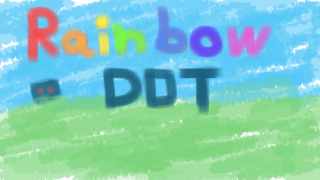
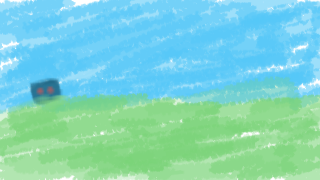
Upgrade title effect in title scrren!

Changed region(s): [[0.0625, 0.0278, 0.875, 0.3611], [0.3125, 0.3611, 0.6875, 0.6389]]

diff --git a/src/menuScreen.cpp b/src/menuScreen.cpp
@@ -11,6 +11,12 @@ MenuScreen::MenuScreen()
 {
 	//Load and set m_Logo
 	m_Background = SDLToolBox::LoadTexture("game/pic/menuScreenBackground.png", Window::m_Renderer);
+
+	m_Title[0] = SDLToolBox::LoadTexture("game/pic/menuScreenTitle1.png", Window::m_Renderer);
+	m_Title[1] = SDLToolBox::LoadTexture("game/pic/menuScreenTitle2.png", Window::m_Renderer);
+	m_Title[2] = SDLToolBox::LoadTexture("game/pic/menuScreenTitle3.png", Window::m_Renderer);
+
+	m_CurrentTitle = 0;
 }
 
 MenuScreen::~MenuScreen()
@@ -32,6 +38,13 @@ MenuScreen::EventHandler(SDL_Event* event)
 void
 MenuScreen::Update()
 {
+	static int frameCount = 0;
+
+	if (++frameCount >= 15) {
+		frameCount = 0;
+		if (++m_CurrentTitle > 2)
+			m_CurrentTitle = 0;
+	}
 }
 
 void
@@ -40,6 +53,7 @@ MenuScreen::Render()
 	Window::Clear();
 
 	SDL_RenderCopy(Window::m_Renderer, m_Background, NULL, &Window::m_WindowRect);	
+	SDL_RenderCopy(Window::m_Renderer, m_Title[m_CurrentTitle], NULL, &Window::m_WindowRect);	
 
 	Window::Present();
 }
@@ -48,6 +62,11 @@ void
 MenuScreen::CleanUp()
 {
 	SDL_DestroyTexture(m_Background);
-
 	m_Background = NULL;
+	
+	for (int i = 0; i < 3; i++ ) {
+		SDL_DestroyTexture(m_Title[i]);
+		m_Title[i] = NULL;
+	}
+
 }

diff --git a/include/menuScreen.h b/include/menuScreen.h
@@ -36,6 +36,9 @@ class MenuScreen: public GameStatus
 	private:
 		SDL_Texture* m_Background;
 
+		int m_CurrentTitle;
+		SDL_Texture* m_Title[3];
+
 		void CleanUp();
 };
 
